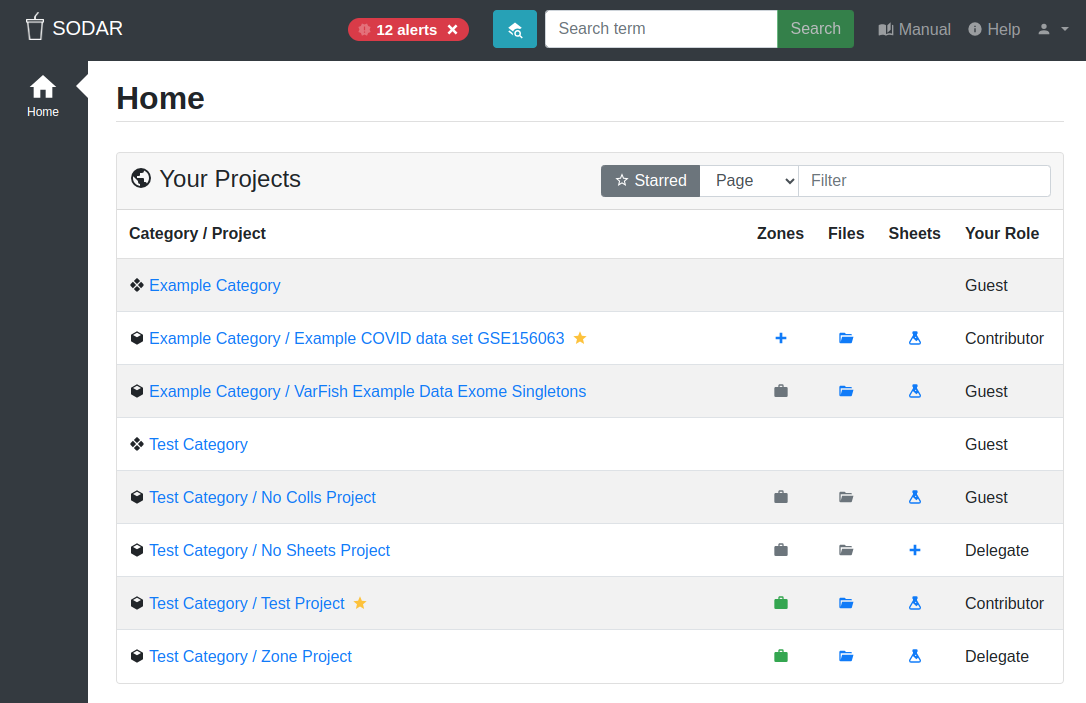
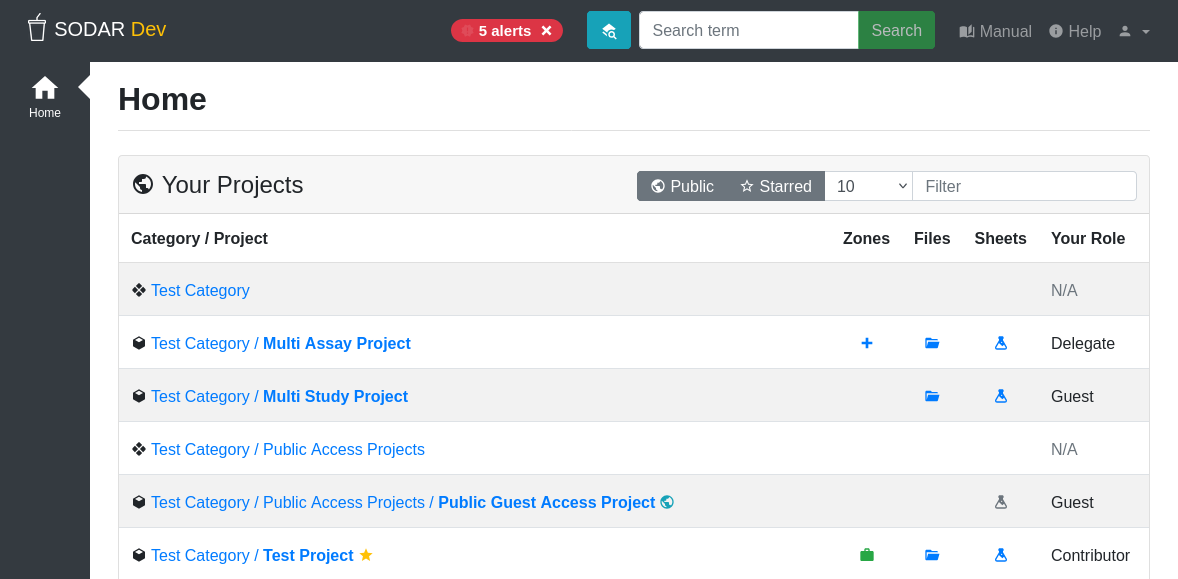
update docs for sodar core v1.5 upgrade (#2633)

diff --git a/docs_manual/source/ui_project_overview.rst b/docs_manual/source/ui_project_overview.rst
@@ -3,13 +3,12 @@
 Project Overview
 ^^^^^^^^^^^^^^^^
 
-Once you navigate into a project, you can see the project overview on the right
-hand side of the screen. The sidebar on the left hand side has been expanded to
-display links related to the project.
+Once you navigate into a project, you can see the project overview in the main
+content area in your browser. Below the site title bar there is a navigation
+breadcrumb. It can be used to easily return to a parent category.
 
-Below the site title bar there is a navigation breadcrumb. It can be used to
-easily return to a parent category. The project title bar displays the project
-title, description and project-specific links.
+The rest of the view is dedicated to project content. On top of each page is the
+project header, which displays the project title and project-specific shortcuts.
 
 .. figure:: _static/sodar_ui/project_detail.png
     :align: center
@@ -17,9 +16,41 @@ title, description and project-specific links.
 
     Project overview
 
-If you are viewing a category instead of a project, you will see a more limited
-set of information and sidebar links, while still following the same general
-structure.
+The sidebar on the left hand side has been expanded to display links related to
+the project. If you are viewing a category instead of a project, you will see a
+more limited set of information and sidebar links, while still following the
+same general structure.
+
+
+Project Header
+==============
+
+The project header displays the project title along with controls for starring
+and a dropdown menu with project-specific shortcuts.
+
+The starring link can be used to toggle the project in your favourites. Once
+set, project lists can be filtered to only display your starred projects.
+
+The project dropdown contains the following links to project-specific shortcuts:
+
+View Description
+    Open a modal to display a textual description for the project.
+Copy Project UUID
+    Copy the UUID of the project into the clipboard.
+Copy Project URL
+    Copy the project overview URL into the clipboard.
+Copy Human-Readable URL
+    Copy a human-readable redirect URL for the project into the clipboard. This
+    can be used to save or share a link to the project in a format easier to
+    remember than one containing a UUID. The project title in the URL is
+    controlled by the :guilabel:`Title slug` field in the
+    :ref:`project update form <ui_project_update>`.
+
+.. figure:: _static/sodar_ui/project_header.png
+    :align: center
+    :scale: 65%
+
+    Project header and the project dropdown
 
 
 Overview Section
@@ -28,7 +59,7 @@ Overview Section
 The project overview section on the right hand side of the view consists of the
 following elements:
 
-ReadMe
+Readme
     An optional description for the project in MarkDown notation. Can be updated
     :ref:`project update view <ui_project_update>` by users with an *owner* or
     *delegate* role.

diff --git a/docs_manual/source/ui_user_profile.rst b/docs_manual/source/ui_user_profile.rst
@@ -43,10 +43,6 @@ Receive email for iRODS data requests
 Receive email for admin alerts
     Receive email notifications for admin alerts where the admin has enabled
     email alering. If unchecked, you can still see the alerts in the SODAR GUI.
-Display project UUID copying link
-    Enabling this will add an icon next to the project title on each project
-    view. Clicking it will copy the project identifier (UUID) into the
-    clipboard.
 Receive alerts for project updates
     Receive UI alerts for category or project creation, updating, moving,
     archiving and deletion.
@@ -61,11 +57,14 @@ Receive email for project membership updates
     member invitation activity.
 Project list title highlight
     Highlight project title in paths displayed in the project list.
-Project list page size
-    Amount of projects per page in the project list.
+Display public access projects in project list
+    Display public access projects in the project list. Public projects with a
+    local role set for you will always be displayed.
 Show username in user dropdown
     Display the name of the current user directly in the user dropdown button.
     Useful for owners of multiple accounts.
+Project list page size
+    Amount of projects per page in the project list.
 
 .. figure:: _static/sodar_ui/user_profile_settings.png
     :align: center
@@ -109,3 +108,13 @@ your user account deactivated, contact your instance's support email or
 administrators. After deactivation you will no longer be able to log in to the
 SODAR instance or access the REST API. You will also not receive any further
 notification emails from the server.
+
+
+Viewing Profiles of Other Users
+===============================
+
+If enabled on the site, you can view the profile of another user by clicking the
+link for their username in the :ref:`ui_user_list` list or elsewhere in the UI.
+
+When viewing another user's profile, you will see their basic user details along
+with a list of mutual projects both of you can access.

diff --git a/docs_manual/source/ui_alerts.rst b/docs_manual/source/ui_alerts.rst
@@ -7,8 +7,10 @@ This section details the types of alerts displayed for you and how to interact
 with them.
 
 
-Application Alerts
-==================
+.. _ui_alerts_app:
+
+App Alerts
+==========
 
 The SODAR UI will display you alerts raised by its applications. These alerts
 notify of e.g. activity affecting sample data, role changes in projects, status
@@ -59,19 +61,21 @@ user dropdown on the top right corner of the site and selecting
 
 .. _ui_alerts_admin:
 
-Administrator Alerts
-====================
+Admin Alerts
+============
 
 SODAR administrators can issue alert messages to all users. Admin alerts
-can be used to inform users about e.g. upcoming downtime. Similarly to
-application-specific alerts, admin alerts are visible as a blue bar at the top
-of the page, and can be dismissed by clicking the cross on the right. Some
-alerts can contain additional detailed information, which can be accessed by the
-:guilabel:`Details` link. By default, administrator alerts are also sent out to
-users as email.
+can be used to inform users about e.g. upcoming downtime. Admin alerts are
+visible as a blue bar on the top of the view. Some alerts can contain additional
+detais, which can be accessed by clicking the :guilabel:`Details` link. By
+default, administrator alerts are also sent out to users as email.
 
-.. figure:: _static/sodar_ui/alert_admin.png
+Admin alerts can be dismissed by clicking the close link on the right. After
+dismissal, they can still be viewed on a list of past alerts by clicking on the
+:guilabel:`Admin Alerts` link in the :ref:`user dropdown <ui_user_dropdown>`.
+
+.. figure:: _static/sodar_ui/alert_admin_list.png
     :align: center
-    :scale: 35%
+    :scale: 50%
 
-    Admin alert
+    Admin alerts list with an active alert

diff --git a/docs_manual/source/ui_project_update.rst b/docs_manual/source/ui_project_update.rst
@@ -17,10 +17,10 @@ project, the role of owner or delegate is required.
     Project creation and update view
 
 
-Project Metadata
+Project Settings
 ================
 
-The following project metadata and settings are available for updating:
+The following project settings are available for updating:
 
 Title
     Update the project title. The title must be unique within the parent
@@ -30,7 +30,7 @@ Parent
     which you have sufficient access.
 Description
     Set an optional longer description of the project.
-ReadMe
+Readme
     Set an optional readme document for the project. Markdown notation can be
     used. Note that project guests and viewers can see the readme:s of projects
     and their parent categories. Providing confidential information here should
@@ -44,6 +44,11 @@ Public access
     server allows anonymous users, this will grant specified access to anyone
     browsing the site even if they have not logged in. Note that in case of
     external sites, this setting only applies to the current SODAR site.
+Title slug
+    Unique slugified string for the project title, generated on project
+    creation. Used to build a human-readable redirect URL for the project,
+    accessible in the project dropdown. The slug can be customized, but note
+    that doing so breaks any existing human-readable links for the project.
 Enable project on {target remote site}
     Enable access to project for project members on the selected target site.
     Target sites for which project owner/delegation modifying is enabled by an

diff --git a/docs_manual/source/ui_user_dropdown.rst b/docs_manual/source/ui_user_dropdown.rst
@@ -7,9 +7,9 @@ The user dropdown menu can be found in the top right corner of the SODAR UI.
 It providess access to site-wide applications, which contain functionality and
 information not related to a specific SODAR project.
 
-.. figure:: _static/sodar_ui/user_menu.png
+.. figure:: _static/sodar_ui/user_dropdown.png
     :align: center
-    :scale: 75%
+    :scale: 85%
 
     SODAR user dropdown
 
@@ -17,9 +17,12 @@ In the top of the dropdown your user name and real name are displayed. Below,
 you can find links to applications followed by a log out link. Currently, the
 following applications are accessible for a logged-in user:
 
+Admin Alerts
+    :ref:`Administrator alerts <ui_alerts_admin>` for e.g. site status updates
+    can be browsed here.
 App Alerts
-    Alerts raised to you regarding finished background operations or actions of
-    other users.
+    Browse :ref:`application alerts <ui_alerts_app>` raised to you regarding
+    finished background operations or actions of other users.
 iRODS Info
     Display the status of the iRODS file storage and generate user configuration
     files for connecting.
@@ -30,3 +33,9 @@ API Tokens
 User Profile
     View and configure your global user settings in the
     :ref:`user profile <ui_user_profile>` view.
+Site Users
+    If enabled, this link will take you to a list of users registered on the
+    site. You will also be able to see common projects between you and each
+    user.
+Logout
+    Log out from the site.

diff --git a/docs_manual/source/ui_index.rst b/docs_manual/source/ui_index.rst
@@ -57,15 +57,20 @@ User Icon
     Click this to open the :ref:`user dropdown <ui_user_dropdown>`.
 Home
     Click this to return to this home view.
-Available Projects
+Your Projects
     A paginated list of categories and projects to which you have access. The
     list columns contain shortcuts for creating or accessing landing zones,
     browsing the project's sample data via WebDAV, and viewing or importing
     sample sheets into a project.
+Public Button
+    Toggle displaying of public access projects which are available to all users
+    on the site. Note that when hidden, you will still see public access
+    projects for which you have an explicitly granted role. Your choice will
+    persist when you revisit the home view.
 Starred Button
     Filter projects to those that you have favourited by clicking on the star
-    icon in the project views. The starred status toggle will be remembered the
-    next time you navigate to this view.
+    icon in the project views. Your choice will persist when you revisit the
+    home view.
 Page Dropdown
     Choose how many categories and projects are displayed on each page of the
     list. This value will be saved for subsequent visits to the site. Pagination

diff --git a/docs_manual/source/api_sodar_core.rst b/docs_manual/source/api_sodar_core.rst
@@ -20,11 +20,11 @@ Versioning
 Media Type
     ``application/vnd.bihealth.sodar-core.projectroles+json``
 Current Version
-    ``2.0``
+    ``2.1``
 Accepted Versions
-    ``1.0``, ``1.1``, ``2.0``
+    ``1.0``, ``1.1``, ``2.0``, ``2.1``
 Header Example
-    ``Accept: application/vnd.bihealth.sodar-core.projectroles+json; version=2.0``
+    ``Accept: application/vnd.bihealth.sodar-core.projectroles+json; version=2.1``
 
 API Views
 ---------
@@ -46,11 +46,11 @@ Versioning
 Media Type
     ``application/vnd.bihealth.sodar-core.timeline+json``
 Current Version
-    ``2.0``
+    ``2.1``
 Accepted Versions
-    ``2.0``
+    ``2.0``, ``2.1``
 Header Example
-    ``Accept: application/vnd.bihealth.sodar-core.timeline+json; version=2.0``
+    ``Accept: application/vnd.bihealth.sodar-core.timeline+json; version=2.1``
 
 API Views
 ---------

diff --git a/docs_manual/source/ui_user_list.rst b/docs_manual/source/ui_user_list.rst
@@ -1,0 +1,20 @@
+.. _ui_user_list:
+
+Site Users
+^^^^^^^^^^
+
+The site user list displays a list of users registered on this SODAR instance.
+The list can be sorted by different column and filtered down to a search term.
+
+By clicking on the user name link, you can view their public
+:ref:`user profile <ui_user_profile>` containing basic information and a list of
+mutual projects both of you can access.
+
+Server administrators can choose whether to enable this view on the site, so it
+may be unavailable in your SODAR instance.
+
+.. figure:: _static/sodar_ui/user_list.png
+    :align: center
+    :scale: 55%
+
+    Site users view

diff --git a/docs_manual/source/admin_upgrade.rst b/docs_manual/source/admin_upgrade.rst
@@ -37,6 +37,18 @@ before performing the upgrade.
 v1.4
 ====
 
+Project Title Slug Update
+-------------------------
+
+SODAR Core v1.5 introduces project title slugs, which are used to create
+human-readable redirect URLs for categories and projects. If you want to
+generate title slugs for existing projects created before the upgrade, run the
+``updatetitleslugs`` management command. Example:
+
+.. code-block:: bash
+
+    $ ./manage.py updatetitleslugs
+
 Legacy Landing Zone Update
 --------------------------
 

diff --git a/docs_manual/source/admin_commands.rst b/docs_manual/source/admin_commands.rst
@@ -48,6 +48,9 @@ These commands originate in SODAR Core. More information can be found in the
     is enabled.
 ``transferroles``
     Transfer all project roles from one user to another.
+``updatetitleslugs``
+    Generate title slugs for categories and projects for creation of
+    human-readable redirect URLs.
 
 
 .. _admin_commands_sodar:

diff --git a/CHANGELOG.rst b/CHANGELOG.rst
@@ -49,7 +49,7 @@ Changed
 -------
 
 - **General**
-    - Upgrade to django-sodar-core v1.5.2 (#2557, #2634)
+    - Upgrade to django-sodar-core v1.5.2 (#2557, #2633, #2634)
     - Upgrade general Python dependencies (#2578)
     - Upgrade Docker build for Python v3.14 (#2557)
     - Upgrade to Node.js v26 (#2632)

diff --git a/docs_manual/source/index.rst b/docs_manual/source/index.rst
@@ -51,6 +51,7 @@ Table of Contents
     ui_irods_info
     ui_api_tokens
     ui_user_profile
+    ui_user_list
     ui_search
     ui_project_overview
     ui_project_members
